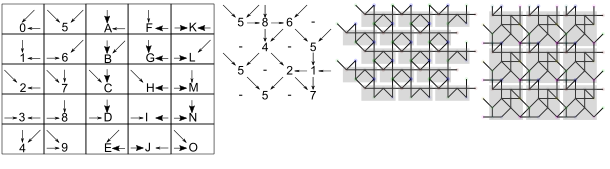
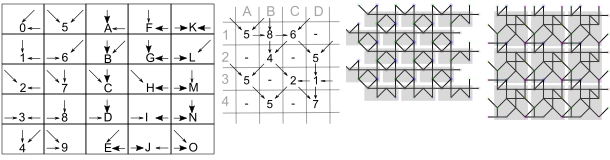
matrix legend explains stitch IDs

Changed region(s): [[0.0, 0.0, 1.0, 0.9688], [0.1246, 0.0625, 0.1557, 0.0938]]

diff --git a/docs/index.html b/docs/index.html
@@ -101,8 +101,10 @@
             Each thumbnail is defined with a matrix.
             Each character represents two incoming arrows.
             Larger arrows represent double length lines, they skip a grid position.
-            The grey rectangles show possible tile (repeat) arrangements.
+            The solid grey rectangles show possible tile (repeat) arrangements.
             Only some matrices are valid for both types of tile arrangement.
+            The grey digits and letters explain the ID's of stitches
+            that pop up when you hover over one with your mouse.
         </p>
         <img src="images/legend.png" id="legend" alt="legend" align="right">
         <div>
